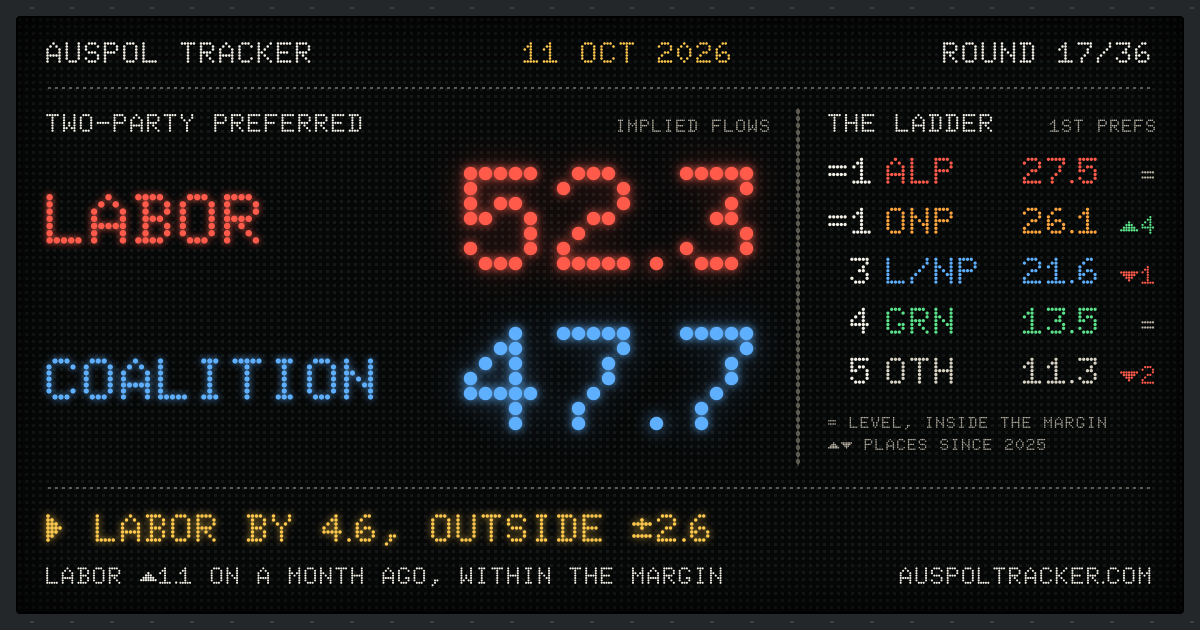
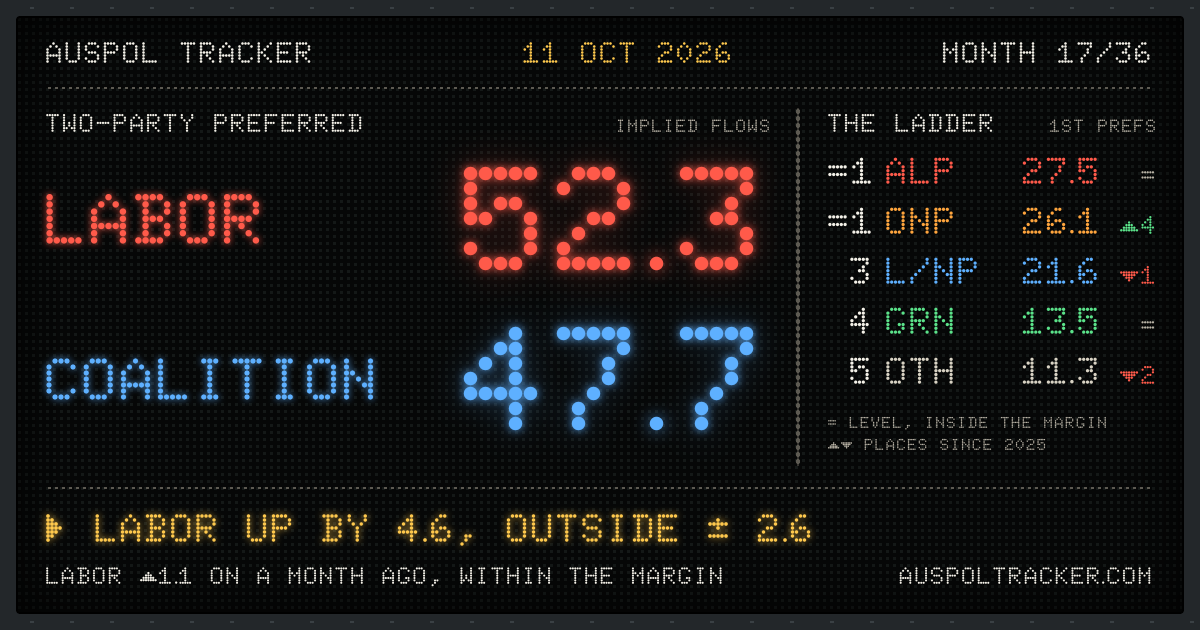
Share card: 'ROUND 17/36' reads 'MONTH 17/36', and the verdict ticker gains 'UP' and a space after ± - 'LABOR UP BY 4.6, OUTSIDE ± 2.6' (user call 2026-10-13: 'make it say month instead of round ... include up and a space after ±'). All three verdict variants move together (UP BY, ± space) so a too-

Changed region(s): [[0.185, 0.8143, 0.6783, 0.8746], [0.8325, 0.0603, 0.8633, 0.1206], [0.7708, 0.0603, 0.8017, 0.0905]]

diff --git a/.build/newtracker/make-card.js b/.build/newtracker/make-card.js
@@ -26,7 +26,7 @@
      gap is inside the two figures' margins combined: the primary-vote
      panel's level test, run from the top of each group down. The arrows
      count places gained or lost since the election result;
-   - ROUND n/N: n months since the election, of the N the term can run to
+   - MONTH n/N: n months since the election, of the N the term can run to
      (the election to the latest date the next one can be held).
    Every value is read from window.AUSPOL.
 
@@ -126,9 +126,9 @@
   const lead = +(Q.a - Q.b).toFixed(1), margin = +(2 * Q.ci).toFixed(1);
   const tooClose = Math.abs(lead) <= margin;
   const leader = lead > 0 ? "LABOR" : lead < 0 ? RIVAL : null;
-  const verdict = !tooClose ? "▶ " + leader + " BY " + r1(Math.abs(lead)) + ", OUTSIDE ±" + r1(margin)
-    : leader ? "▶ TOO CLOSE TO CALL: " + leader + " BY " + r1(Math.abs(lead)) + ", INSIDE ±" + r1(margin)
-    : "▶ DEAD LEVEL, INSIDE ±" + r1(margin);
+  const verdict = !tooClose ? "▶ " + leader + " UP BY " + r1(Math.abs(lead)) + ", OUTSIDE ± " + r1(margin)
+    : leader ? "▶ TOO CLOSE TO CALL: " + leader + " UP BY " + r1(Math.abs(lead)) + ", INSIDE ± " + r1(margin)
+    : "▶ DEAD LEVEL, INSIDE ± " + r1(margin);
   /* The month's move, called as the hero calls it: "within the margin" unless
      the move clears its own interval. With no month-ago figure the line says
      what the reading rests on instead. */
@@ -165,16 +165,16 @@
     p.moved = was ? was - p.place : 0;
   });
   const elecYear = elect.ym.slice(0, 4);
-  /* ROUND n/N: whole months from the election to the reading, out of the
+  /* MONTH n/N: whole months from the election to the reading, out of the
      whole months from the election to the latest date the next one can be
      held - read off nextElectionDue ("By 20 May 2028") with the masthead's
-     own pattern. With no date to read, the round stands alone. */
+     own pattern. With no date to read, the month stands alone. */
   const ey = Number(elect.ym.slice(0, 4)), em = Number(elect.ym.slice(5, 7));
   const round = (uy - ey) * 12 + um - em;
   const due = /(\d{1,2}) (\w+) (\d{4})/.exec(L.nextElectionDue || "");
   const dueMon = due ? MON.indexOf(due[2].slice(0, 3).toUpperCase()) + 1 : 0;
   const termMonths = dueMon ? (Number(due[3]) - ey) * 12 + dueMon - em : null;
-  const roundLab = "ROUND " + round + (termMonths > round ? "/" + termMonths : "");
+  const monthLab = "MONTH " + round + (termMonths > round ? "/" + termMonths : "");
 
   /* ---- drawing ---------------------------------------------------------- */
   const FONT_URL = ".build/newtracker/fonts/doto-card.woff2";
@@ -270,7 +270,7 @@
     + '<div class="rivets" style="top:0"></div><div class="rivets" style="bottom:0"></div>'
     + '<div class="panel">'
     + '<div class="hdr" style="' + lit("white") + '"><span>' + led("AUSPOL TRACKER") + '</span><span style="'
-      + lit("amber") + '">' + led(dateLab.toUpperCase()) + "</span><span>" + led(roundLab) + "</span></div>"
+      + lit("amber") + '">' + led(dateLab.toUpperCase()) + "</span><span>" + led(monthLab) + "</span></div>"
     + '<div class="rule-h" style="top:70px"></div>'
     + '<div class="head" style="left:30px;width:726px;' + lit("white") + '"><span>' + led("TWO-PARTY PREFERRED")
       + '</span><span class="sub">' + led(Q.imp ? "IMPLIED FLOWS" : "AS PUBLISHED") + "</span></div>"
